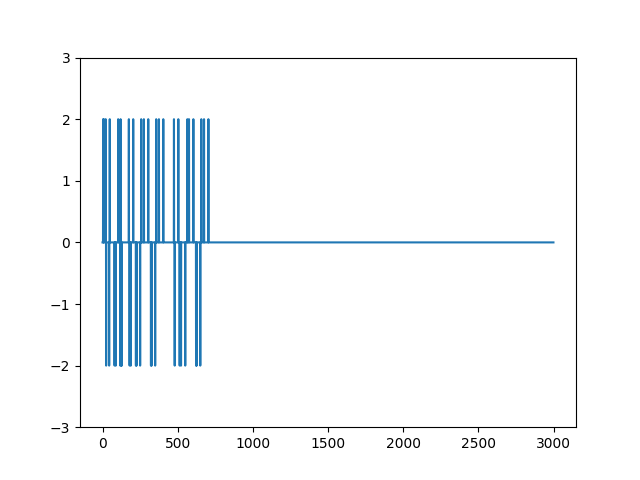
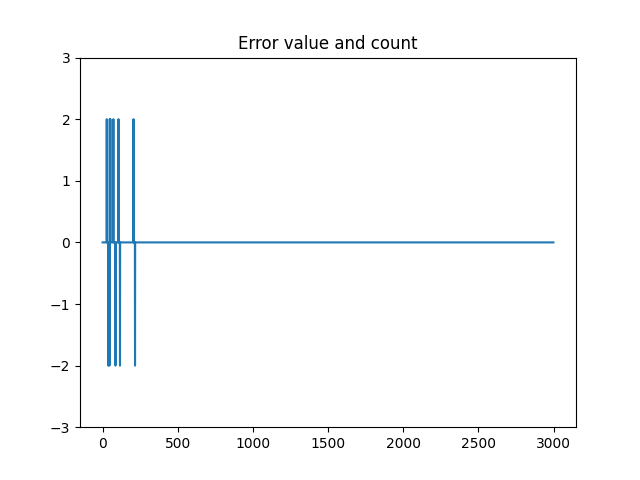
HW2 WIP checkin

Changed region(s): [[0.1562, 0.25, 0.3438, 0.7812], [0.375, 0.0625, 0.6562, 0.125]]

diff --git a/Project/Work/Indranil/assignment2/hw2.py b/Project/Work/Indranil/assignment2/hw2.py
@@ -9,11 +9,9 @@ import pandas as pd
 
 
 
-
-training_set=[]
-weights=np.random.rand(2)
 datasetSize=100
-b=0
+training_set=[]
+
 
 def setup():
     for i in range(datasetSize):
@@ -29,7 +27,7 @@ def isPositiveTrainingY(x1, x2):
         return 1
 
 #Activation function
-def activation_function(x):
+def activation_function(x, weights, b):
     value = sum(x * weights) + b
     if value<0:
         return -1
@@ -71,10 +69,12 @@ b = 0
 
 mydict= {}
 
+weights = np.random.rand(2)
+b = 0
 for i in range(epoch):
     errorcount = 0
     for x, y in training_set:
-        error = y - activation_function(x)
+        error = y - activation_function(x, weights, b)
         if (error != 0):
             errorcount = errorcount + 1
         errors.append(error)
@@ -82,7 +82,7 @@ for i in range(epoch):
             # print(w[index])
             weights[index] += eta * error * value/100
             b += eta * error
-    print('{} iteration {} errorcount , {} . {} '.format(i, errorcount, b, weights))
+    print(' Iteration: {} :  [errorcount: {} , weights:{}, bias:{} ]'.format(i+1, errorcount, weights, b ))
     mydict[i+1]=errorcount
 
 #print(mydict)
@@ -94,7 +94,7 @@ plt.bar(range(len(mydict)), values, tick_label=names)
 plt.xticks(rotation = 90)
 plt.xlabel('iteration')
 plt.ylabel('errorcount')
-plt.title(" Count of rrors in different iteration")
+plt.title(" Count of errors in different iteration")
 plt.show(block=True)
 
 
